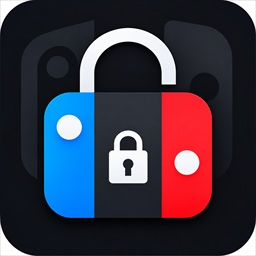
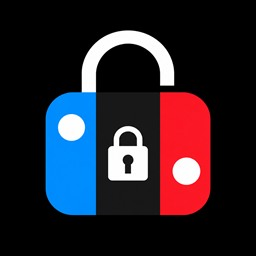
chore: icone novo e testes de console da 1.0.1 confirmados
A arte do icone trocou. source/icon.png e o original (1254x1254) e o
icon.jpg que o .nro embute sai dele por redimensionamento direto para
256x256, sem corte: as duas artes sao quadradas. Exigencia do formato,
nao escolha nossa.

Versao 1.0.2 em vez de regravar o asset da 1.0.1: aquela release ja tinha
downloads, e binario diferente sob a mesma tag queima quem baixou.

A tabela de testes ganha o que foi confirmado no console: portao de PIN
unico, troca de idioma sobrevivendo a reabrir, B abrindo jogo bloqueado
e -- o que mais importava -- o stub voltando na proxima abertura, com o
jogo deixando de subir pelo HOME. Os nao executado que restam continuam
sendo os casos de borda de sempre.

diff --git a/source/main.c b/source/main.c
@@ -1,4 +1,4 @@
-// GameLock 1.0.1 - bloqueio efetivo dos jogos protegidos.
+// GameLock 1.0.2 - bloqueio efetivo dos jogos protegidos.
 //
 // Interface, PIN e persistencia, mais o bloqueio real: os jogos marcados
 // ganham stubs de exefs no cartao (ver block.c) e nao sobem mais pelo menu
@@ -37,7 +37,7 @@
 #include "games.h"
 #include "pin.h"
 
-#define GAMELOCK_VERSION "1.0.1"
+#define GAMELOCK_VERSION "1.0.2"
 
 #define SCREEN_W 1280
 #define SCREEN_H 720

diff --git a/README.md b/README.md
@@ -337,7 +337,8 @@ já resolve).
 
 O ícone do `.nro` é o `icon.jpg` da raiz (256×256 JPEG, exigência do formato),
 apontado por `ICON` no `Makefile`. O original em alta resolução fica em
-`source/icon.png`.
+`source/icon.png` — trocou na 1.0.2, e o `icon.jpg` é gerado dele por
+redimensionamento direto, sem corte (as duas artes são quadradas).
 
 ### Arquivos
 
@@ -386,27 +387,27 @@ bloqueado e a tela avisa.
 | Ícone no hbmenu/forwarder | o cadeado deve aparecer, não o ícone padrão do libnx | **OK** |
 | `B` abre o jogo (modo application) | pelo forwarder, liberar e apertar `B` | **OK** |
 | `B` abre o jogo (modo applet) | pelo Álbum, liberar e apertar `B` | **OK** |
-| `B` abre jogo **bloqueado** | apertar `B` sem liberar: deve abrir | **não executado** — 1.0.1 |
-| Bloqueio volta sozinho | depois do `B` acima, reabrir o GameLock e conferir o HOME | **não executado** — 1.0.1 |
+| `B` abre jogo **bloqueado** | apertar `B` sem liberar: deve abrir | **OK** |
+| Bloqueio volta sozinho | depois do `B` acima, reabrir o GameLock e conferir o HOME | **OK** |
 | Tela de espera aparece | abrir com biblioteca grande | **OK** |
-| Troca de idioma | alternar em Configurações, sair, reabrir | **não executado** — 1.0.1 |
+| Troca de idioma | alternar em Configurações, sair, reabrir | **OK** |
+| Portão de PIN único | `A`, `Y` e a chave geral devem agir sem pedir teclado | **OK** |
 
 Validado em console pelo autor em 2026-11-06, 0.8.0 e 0.9.0: proteger, bloquear
 de verdade no HOME, liberar com `Y`, travar de volta, sobreviver ao reboot, PIN,
-teclado próprio, `B` abrindo o jogo nos dois modos e a tela de espera. Os `não
-executado` que restam são casos de borda — SD cheio, `config.json` corrompido,
-conflito com LayeredFS.
+teclado próprio, `B` abrindo o jogo nos dois modos e a tela de espera.
 
-A 1.0.1 trouxe três coisas: o portão de PIN único (ver *Um portão de PIN só*), a
-troca de idioma, e `B` abrindo jogo bloqueado. O mecanismo de bloqueio e o
-formato gravado não mudaram, então os testes acima continuam valendo; o build
-saiu limpo, 0 avisos.
+Validado em console pelo autor em 2026-11-07, 1.0.1: o portão de PIN único (`A`,
+`Y` e a chave geral agindo direto, sem teclado), a troca de idioma sobrevivendo a
+fechar e reabrir, `B` abrindo jogo bloqueado, e — o que mais importava — reabrir
+o GameLock depois disso repondo o stub, com o jogo voltando a não subir pelo
+HOME. A promessa de que o `B` não deixa rastro está confirmada no hardware.
 
-**Falta console na 1.0.1**: que `A`, `Y` e a chave geral agem direto sem teclado;
-que o idioma escolhido sobrevive a fechar e reabrir; que `B` abre jogo bloqueado;
-e que reabrir o GameLock depois disso repõe o stub e o jogo volta a não subir
-pelo HOME. Esse último é o que mais importa conferir — é a promessa de que o `B`
-não deixa rastro.
+A 1.0.2 troca só a arte do ícone embutido no `.nro`. Nenhuma linha de
+comportamento mudou.
+
+Os `não executado` que restam são casos de borda — SD cheio, `config.json`
+corrompido, jogo reinstalado, conflito com LayeredFS.
 
 ---
 
